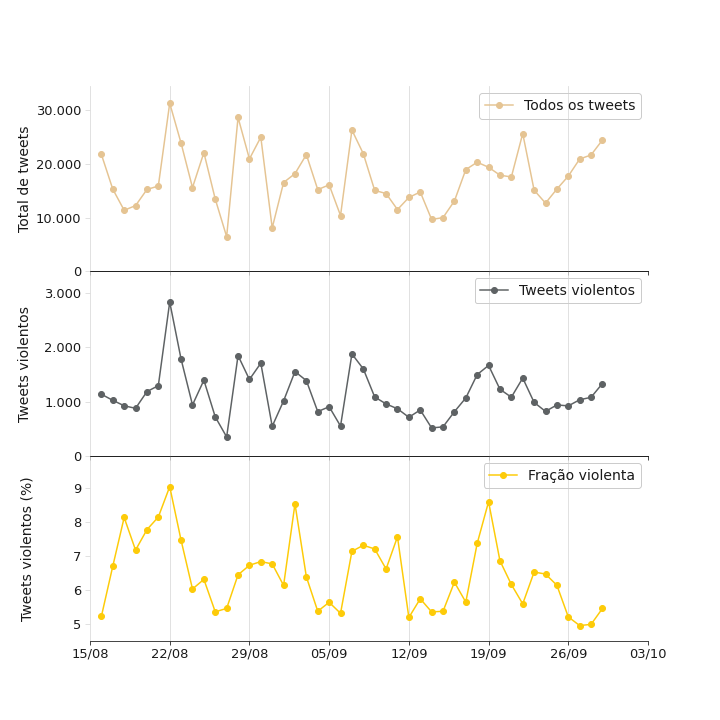
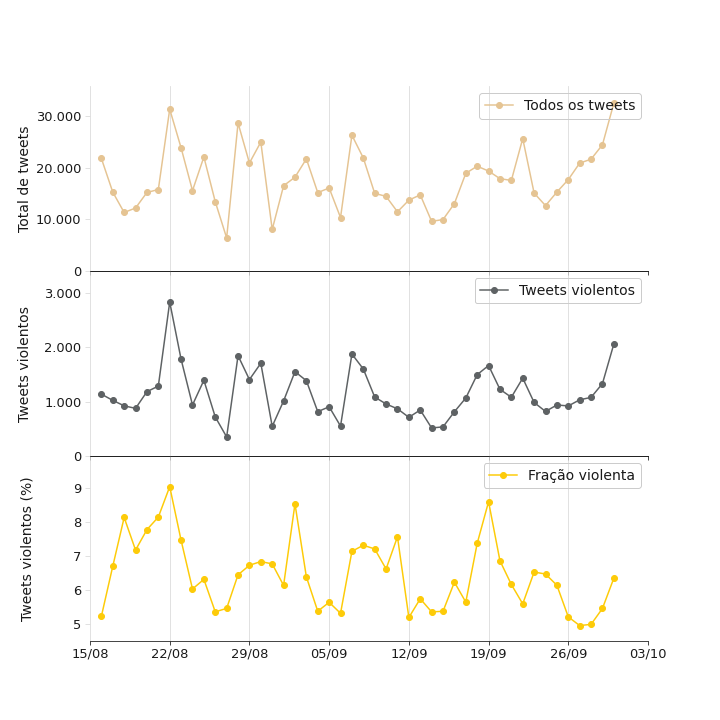
Auto-update webpage data >> 2022-10-01_04:02:40

diff --git a/assets/js/data.js b/assets/js/data.js
@@ -1,1 +1,1 @@
-data = '{"total_counts": 51023, "yesterday_counts": 1331, "time_series_plot": "../gitpage/assets/img/graficos/tweets_agressivos_por_dia_feminino.png", "last_update": "2022-09-30T04:02:31"}'
+data = '{"total_counts": 53081, "yesterday_counts": 2059, "time_series_plot": "../gitpage/assets/img/graficos/tweets_agressivos_por_dia_feminino.png", "last_update": "2022-10-01T04:02:40"}'
